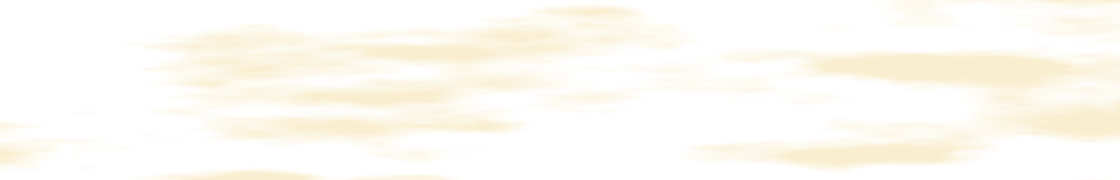
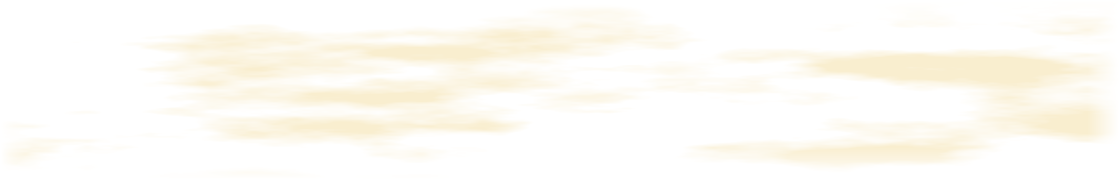
ujs: 标题最上与云四边羽化,去页面底色
WATER KEEPS layer=20 深色; 云 alpha 32px 羽化到 0.
删 background:#594020.
look 前 TOTAL=204851 mae=18; 后 TOTAL=200742 mae=18
title mae=27 cloud mae=19. UXE_REGRESS n=10 failed=0

diff --git a/ujs/plans/demo-v2/look-dev/water-keeps-s0-uxe.html b/ujs/plans/demo-v2/look-dev/water-keeps-s0-uxe.html
@@ -1,6 +1,7 @@
 <!DOCTYPE html>
 <html><head><meta charset="utf-8"/><title>S0U</title>
-<style>html,body{margin:0;overflow:hidden;width:100vw;height:100vh;background:#594020}canvas{display:block;width:100vw;height:100vh}#hud{position:absolute;left:-9999px}</style>
+<style>html,body{margin:0;overflow:hidden;width:100vw;height:100vh}canvas{display:block;width:100vw;height:100vh}#hud{position:absolute;left:-9999px}</style>
+
 
 
 </head>
@@ -85,10 +86,11 @@ async function pngRgba(path){
   if(location.hash.indexOf("nolotus")<0) layer(scene,"lotus",344,332,168,56,10,9,1);
 
   if(location.hash.indexOf("notitle")<0){
-    const t=scene.text("WATER",24,20,4,[1,1,0.55]);
-    for(let i=0;i<t.count;i++) t.scale[i]=10;
-    scene.text("WATER KEEPS",24,24,3,[0.1,0.06,0.03]);
+    const t=scene.text("WATER KEEPS",24,24,5,[0.04,0.025,0.012]);
+    t.layer=20;
   }
+
+
 
 
 
